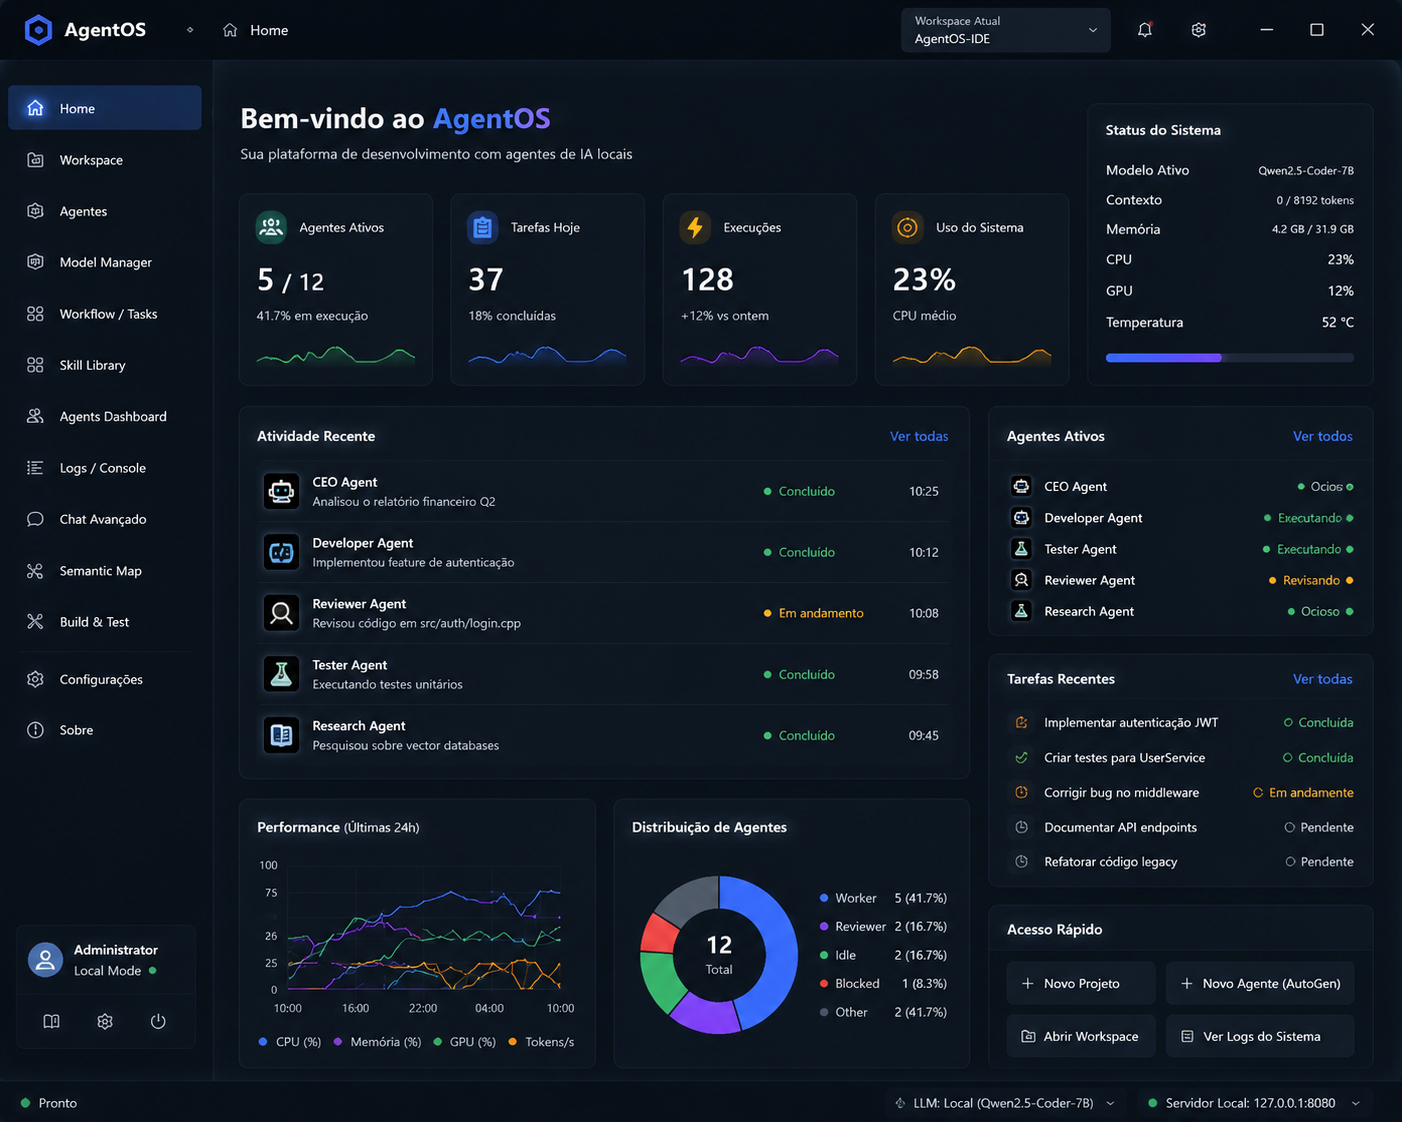
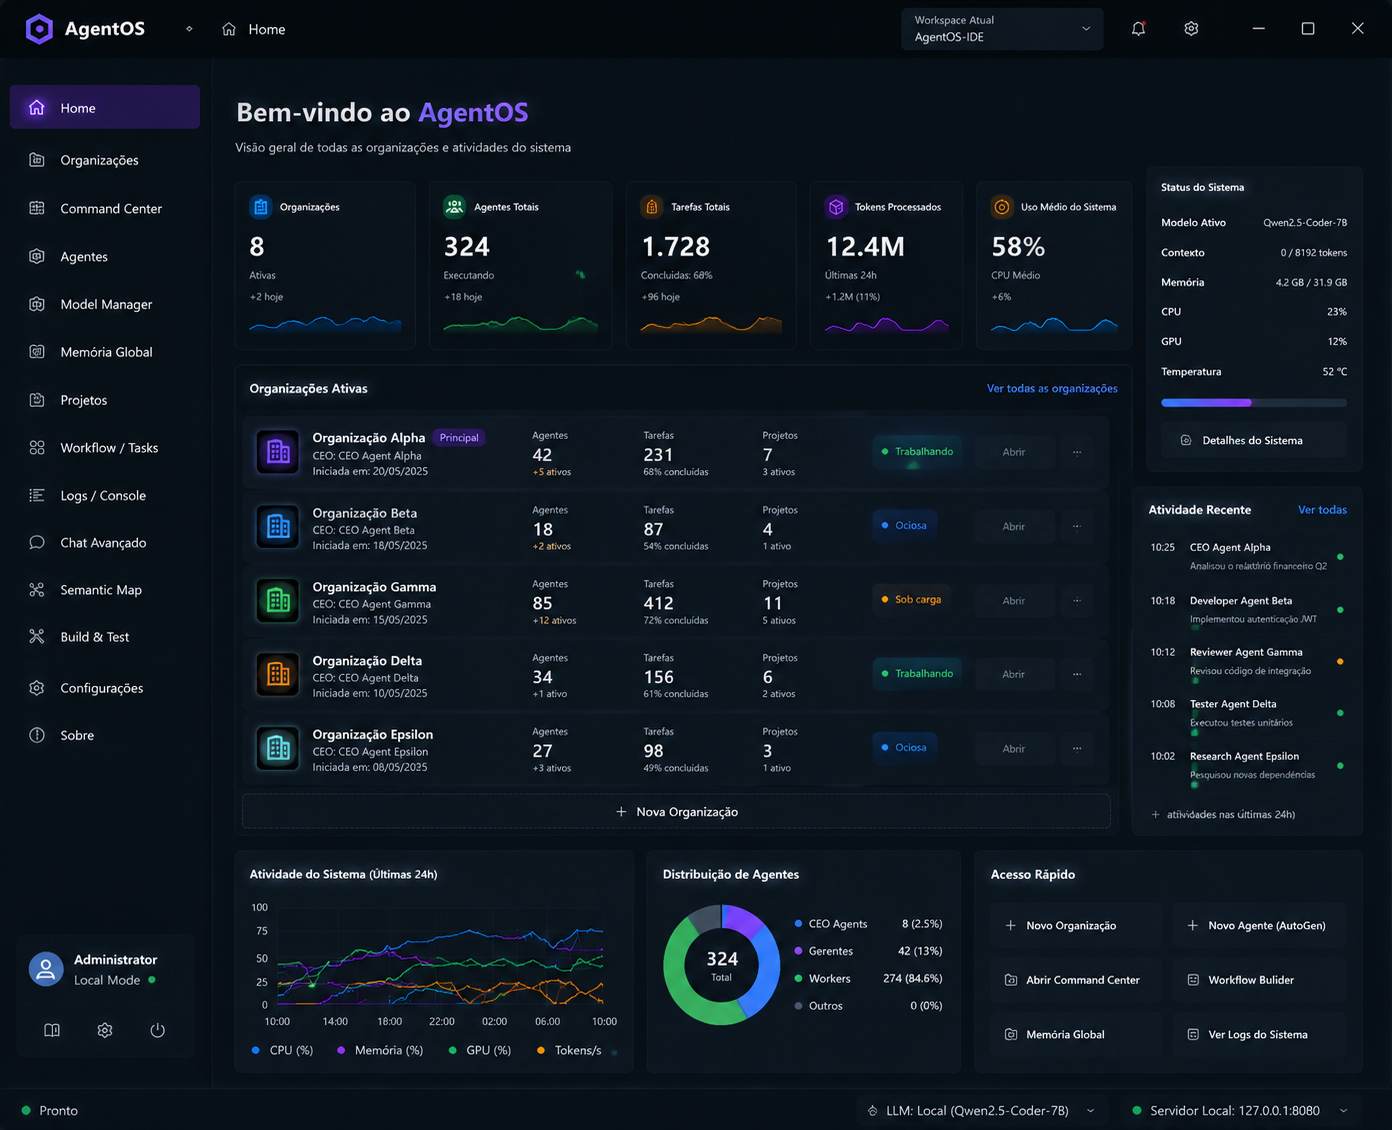
add

diff --git a/src/UI/DashboardComponent.cpp b/src/UI/DashboardComponent.cpp
@@ -92,21 +92,22 @@ void DashboardComponent::resized() {
     int statusH = 22;
     int phase6PanelH = 110;
 
-    menuFile_ = area.removeFromTop(menuH).removeFromLeft(100);
-    menuTools_ = {menuFile_.getRight(), menuFile_.getY(), 120, menuH};
-    menuSecurity_ = {menuTools_.getRight(), menuTools_.getY(), 100, menuH};
-    menuPhase6_ = {menuSecurity_.getRight(), menuSecurity_.getY(), 80, menuH};
-    menuHelp_ = {menuPhase6_.getRight(), menuPhase6_.getY(), 60, menuH};
+    auto menuTop = area.removeFromTop(menuH);
+    menuFile_ = menuTop.removeFromLeft(100);
+    menuTools_ = menuTop.removeFromLeft(120);
+    menuSecurity_ = menuTop.removeFromLeft(100);
+    menuPhase6_ = menuTop.removeFromLeft(80);
+    menuHelp_ = menuTop.removeFromLeft(60);
+
+    int sidebarW = 220;
+    auto sidebarArea = area.removeFromLeft(sidebarW);
+    sidebar_->setBounds(sidebarArea);
 
     auto statusArea = area.removeFromBottom(statusH);
     logViewer_->setBounds(area.removeFromBottom(200)); // Mais espaco pros logs
 
     // Phase 17 metrics row
     auto metricsArea = area.removeFromBottom(phase6PanelH);
-
-    int sidebarW = 220;
-    auto sidebarArea = area.removeFromLeft(sidebarW);
-    sidebar_->setBounds(sidebarArea);
 
     mainTabs_->setBounds(area);
 
@@ -141,12 +142,16 @@ void DashboardComponent::paint(juce::Graphics& g) {
     g.setColour(juce::Colour(0xFF30363d));
     g.drawLine(0, menuH, getWidth(), menuH, 1);
 
-    // Phase 17 Metrics Panel
-    auto metricsArea = area.removeFromBottom(phase6PanelH + 200 + statusH);
-    metricsArea = metricsArea.withHeight(phase6PanelH);
-    paintMetricsPanel(g, metricsArea);
+    int sidebarW = 220;
+    area.removeFromLeft(sidebarW);
 
     auto statusArea = area.removeFromBottom(statusH);
+    area.removeFromBottom(200); // logs
+
+    // Phase 17 Metrics Panel
+    auto metricsArea = area.removeFromBottom(phase6PanelH);
+    paintMetricsPanel(g, metricsArea);
+
     g.setColour(juce::Colour(0xFF161b22));
     g.fillRect(statusArea);
     g.setColour(juce::Colour(0xFF8b949e));